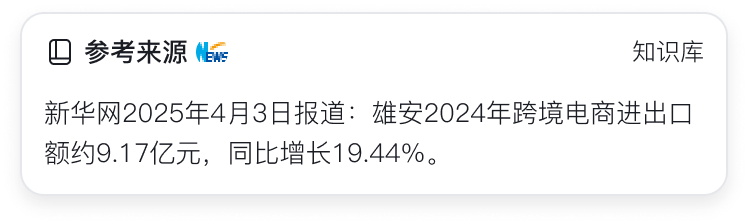
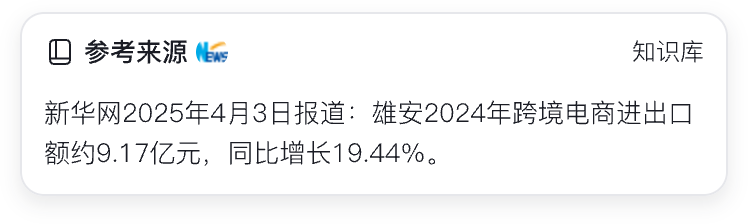
Qsight：移除来源卡片外围白底与重复卡片并左移正文图

diff --git a/src/app/cases/case.css b/src/app/cases/case.css
@@ -421,7 +421,7 @@ body:has(.case-page) { background: var(--color-home-bg); }
 /* The source composition shares the existing plate height; only the outer plate clips. */
 #qsight-03 { container-type: inline-size; }
 .source-evidence { position: relative; height: calc((100cqw - 2 * var(--rhythm-4)) * .625 + 2 * var(--rhythm-4)); min-width: 0; margin: 0; background: var(--color-case-plate); border-radius: var(--space-6); overflow: hidden; }
-.source-evidence-report { position: absolute; left: 0; top: var(--rhythm-6); width: 60%; }
+.source-evidence-report { position: absolute; left: calc(-1 * var(--rhythm-3)); top: var(--rhythm-6); width: 60%; }
 .source-evidence-report img { display: block; width: 180%; max-width: none; height: auto; margin-left: -70%; }
 .source-evidence-deck { position: absolute; inset: var(--rhythm-4) var(--rhythm-4) var(--rhythm-4) 56%; min-width: 0; }
 .source-evidence-card { position: absolute; width: 64%; padding: 0; background: transparent; transform-origin: center; }

diff --git a/src/app/cases/components/SourceEvidence.tsx b/src/app/cases/components/SourceEvidence.tsx
@@ -8,7 +8,6 @@ const cards = [
   { file: 'news-group', title: '多条新闻', width: 748, height: 786 },
   { file: 'enterprise', title: '企业数据', width: 748, height: 728 },
   { file: 'knowledge', title: '知识库', width: 748, height: 224 },
-  { file: 'calculation', title: '模型计算', width: 748, height: 336 },
 ];
 export function SourceEvidence() {
   const root = useRef<HTMLElement>(null);
@@ -19,7 +18,7 @@ export function SourceEvidence() {
     const update = () => {
       const board = el.getBoundingClientRect();
       const report = el.querySelector('.source-evidence-report')!.getBoundingClientRect();
-      const card = el.querySelectorAll('.source-evidence-card')[4].getBoundingClientRect();
+      const card = el.querySelectorAll('.source-evidence-card')[2].getBoundingClientRect();
       const sx = report.right - board.left - 100;
       const sy = report.top - board.top + report.height * .63;
       const tx = card.left - board.left + 12;
